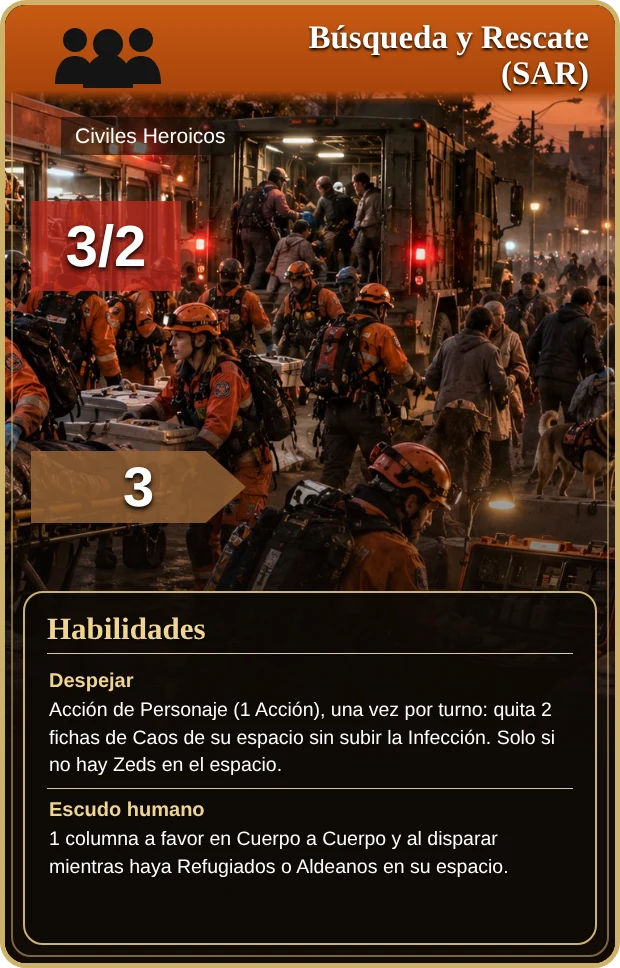
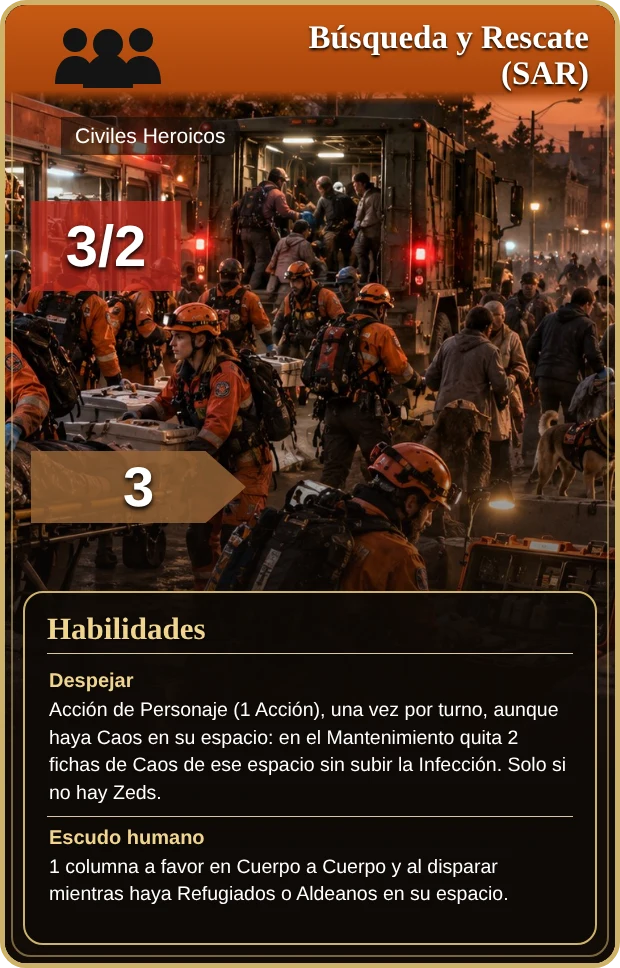
SAR: Despejar se ordena en Acciones y se resuelve en el Mantenimiento
Despejar marca el espacio; en el Mantenimiento quita 2 fichas de Caos sin
Infección y la restauración normal de ese espacio tampoco sube la Infección.
Carta, textos, CHANGELOG, BUILD_TIME y caché actualizados.

Claude-Session: https://claude.ai/code/session_01KmRiLZMftQUUyzar8LGUez

Changed region(s): [[0.0613, 0.7128, 0.9194, 0.9298]]

diff --git a/js/actions.js b/js/actions.js
@@ -188,7 +188,7 @@ function unitActions(u) {
   if (u.key === 'wilson' && u.space) A.push({ id: 'visions', label: '🔮 Visiones: mirar la carta superior de Destino', ok: true });
   if (u.key === 'bender' && u.space === 'C' && !u.ecg) A.push({ id: 'bcure', label: 'Reparar en el Centro (1 Sum., 1 vez por turno)', ok: curable(u) && G.supplies >= 1 });
   /* El SAR es la excepción a «con Caos no se actúa»: su Acción de Personaje es justo para quitarlo. */
-  if (u.key === 'sar' && !u.locked && !u.ecg) A.push({ id: 'despejar', label: 'Despejar (−2 Caos, sin Infección)', ok: !G.charUsed.despejar && pay(1) && despejarOk(u) });
+  if (u.key === 'sar' && !u.locked && !u.ecg) A.push({ id: 'despejar', label: 'Despejar (−2 Caos en el Mantenimiento)', ok: !G.charUsed.despejar && pay(1) && despejarOk(u) });
   if (act && !isSoft(u)) {
     const cu = k => !G.charUsed[k];
     if (u.key === 'schmidt') A.push({ id: 'ini', label: 'Iniciativa', ok: cu('ini') });
@@ -252,10 +252,9 @@ async function runAction(u, id) {
     case 'planes': G.charUsed.planes = true; u.free++; LOG('Jones usa Sus Propios Planes: 1 acción gratis para él.', 'good'); break;
     case 'calle': { const c = calleTargets(u); if (!c.length) { LOG('No hay Civiles que puedan avanzar.'); break; } const v = c.length === 1 ? c[0].id : await UI.pickUnit(c, 'Elige la unidad que avanza hacia el Centro.', true); if (v == null) break; const x = G.units[v], ds = calleDests(x); const d = ds.length === 1 ? ds[0] : await UI.pickSpace(ds, 'Alia: elige el destino de ' + x.name + ' (hasta 2 espacios hacia el Centro).', true); if (d == null) break; G.charUsed.calle = true; if (x.resist) { x.resist = false; LOG(x.name + ' deja de estar Resistiendo.'); } LOG('Alia manda a ' + x.name + ' hacia el Centro.', 'good'); await doMove(x, d, [x.space, d]); break; }
     case 'despejar': {
-      const s = sp(u.space), n = Math.min(2, s.chaos);
       if (!despejarOk(u)) { LOG('No se puede Despejar aquí.'); break; }
-      spendActions(u, 1); G.charUsed.despejar = true; s.chaos -= n; G.chaosLeft += n;
-      LOG('Despejar: ' + u.name + ' quita ' + n + ' de Caos en ' + spaceLabel(s.id) + ' (sin Infección).', 'good'); UI.pulseSpace(s.id, '#7bd45a'); UI.toast('Despejado: −' + n + ' Caos en ' + spaceLabel(s.id), '#7bd45a', 1600); UI.redraw(); break;
+      spendActions(u, 1); G.charUsed.despejar = true; u.despeja = { t: G.turnNo, sp: u.space };
+      LOG('Despejar: ' + u.name + ' prepara el despeje de ' + spaceLabel(u.space) + ' (−2 Caos en el Mantenimiento, sin Infección).', 'good'); UI.pulseSpace(u.space, '#7bd45a'); UI.redraw(); break;
     }
     case 'jefe': { const c = jefeTargets(u); if (!c.length) { LOG('No hay Civiles cerca.'); break; } const v = await UI.pickUnit(c, 'Jefe de equipo: elige la unidad de Civiles que recibe 1 acción gratis.', true); if (v == null) break; G.charUsed.jefe = true; G.units[v].free++; LOG('Jefe de equipo: ' + G.units[v].name + ' recibe 1 acción gratis.', 'good'); break; }
     case 'lid': { const c = allUnits(x => (x.type === 'civ' || x.type === 'civh' || x.type === 'marine') && x.key !== 'horacio' && x.space && (x.space === u.space || adjacentIds(u.space).includes(x.space))); if (!c.length) { LOG('No hay Civiles cerca.'); break; } const v = await UI.pickUnit(c, 'Liderazgo: elige la unidad que recibe 1 acción gratis.', true); if (v == null) break; G.charUsed.lid = true; G.units[v].free++; break; }
@@ -352,9 +351,12 @@ async function maintenance() {
   G.charUsed = {}; G.firstFreeUsed = {};
   if (G.lv.fourR) {
     for (const s of Object.values(G.spaces)) {
+      /* SAR: lo que preparó con Despejar este turno (2 fichas, sin Infección); después sigue la restauración normal del espacio, también sin Infección. */
+      const sar = unitsAt(s.id).some(x => x.key === 'sar' && !x.ecg && x.despeja && x.despeja.t === G.turnNo && x.despeja.sp === s.id);
+      if (sar && s.chaos) { const n = Math.min(2, s.chaos); s.chaos -= n; G.chaosLeft += n; LOG('Despejar: el SAR quita ' + n + ' de Caos en ' + spaceLabel(s.id) + ' (sin Infección).', 'good'); UI.pulseSpace(s.id, '#7bd45a'); UI.toast('Despejado: −' + n + ' Caos en ' + spaceLabel(s.id), '#7bd45a', 1600); }
       if (!s.chaos) continue;
       const rs = unitsAt(s.id).filter(u => (isFighter(u) || u.side === 'raid' || u.type === 'train') && !['pepinillos', 'horacio'].includes(u.key) && !u.ecg && u.type !== 'refugee');
-      const sinInf = rs.some(u => u.key === 'antidist' || u.key === 'doc');
+      const sinInf = sar || rs.some(u => u.key === 'antidist' || u.key === 'doc');
       if (rs.length) { s.chaos--; G.chaosLeft++; LOG('Se restaura el orden en ' + spaceLabel(s.id) + ' (−1 Caos' + (sinInf ? ', sin Infección' : ', +1 Infección') + ').', 'good'); UI.pulseSpace(s.id, '#7bd45a'); UI.toast('Orden restaurado en ' + spaceLabel(s.id) + ': −1 Caos', '#7bd45a', 1600); if (!sinInf) { if (G.weapon && alive('agee')) infDown(2); else await infUp(1); } }
     }
   }

diff --git a/js/ui.js b/js/ui.js
@@ -207,7 +207,7 @@ const ui = {
       ['hernandez', 'cit', 'Ciudadela', 'disparo gratis desde el Centro'], ['seaver', 'medico', 'Médico', 'Curar en el Hospital'], ['seaver', 'aidseaver', 'Primeros auxilios', 'Curar (1 Sum.)'],
       ['salvacion', 'aidsalvacion', 'Campamento Médico', 'Curar (1 Sum.)'], ['bauer', 'bauer', 'Dispositivos explosivos', '2 Sum. → 1 Mun.'], ['agee', 'boost', 'Madre de la Ciencia', '+1 Acción de Evento (+3 Inf.)'],
       ['wzed', 'wzed', 'Transmisión de Emergencia', '1 acción a Civiles/Refugiados'], ['bomberos', 'libera', 'Autoridad Civil', 'liberar Civiles/Aldeanos'], ['lee', 'pura', 'Purasangre', '1 Mover para Lee'],
-      ['darling', 'zen', 'Zen', '1 acción al jugar «Guardar»'], ['carter', 'crepair', 'Reparar camión', '1 Impacto por turno'], ['porter', 'jefe', 'Jefe de equipo', '1 acción a Civiles'], ['sar', 'despejar', 'Despejar', '−2 Caos sin Infección'], ['alia', 'calle', 'Ya no es hora de estar en la calle', 'mover Civiles 2 hacia el Centro']];
+      ['darling', 'zen', 'Zen', '1 acción al jugar «Guardar»'], ['carter', 'crepair', 'Reparar camión', '1 Impacto por turno'], ['porter', 'jefe', 'Jefe de equipo', '1 acción a Civiles'], ['sar', 'despejar', 'Despejar', '−2 Caos en el Mantenimiento'], ['alia', 'calle', 'Ya no es hora de estar en la calle', 'mover Civiles 2 hacia el Centro']];
     const ab = AB.filter(([k]) => alive(k)).map(([k, f, n, d]) => '<li class="sel' + (G.charUsed[f] ? ' used' : '') + '" data-uid="' + alive(k).id + '"><span>' + alive(k).name + ' — ' + n + '</span><span class="r">' + d + '</span></li>');
     if (alive('hernandez')) ab.push('<li class="sel' + (G.speechUsed ? ' used' : '') + '" data-uid="' + alive('hernandez').id + '"><span>' + alive('hernandez').name + ' — Discurso Motivador</span><span class="r">1 por partida</span></li>');
     if (alive('kingman')) { const k = alive('kingman').id; ab.push('<li class="sel' + (G.once.bast ? ' used' : '') + '" data-uid="' + k + '"><span>' + alive('kingman').name + ' — Bastión</span><span class="r">1 por partida</span></li>', '<li class="sel' + (G.once.mines ? ' used' : '') + '" data-uid="' + k + '"><span>' + alive('kingman').name + ' — Campo de Minas</span><span class="r">1 por partida</span></li>'); }

diff --git a/js/expansions.js b/js/expansions.js
@@ -29,7 +29,7 @@ Object.assign(HEROES, {
   macgyver: { name: 'Angus MacGyver', type: 'hero', cls: 'Ciudadano', full: 3, red: 2, mp: 4, img: 'macgyver', lv: 2, exp: 4, nofire: 1, sci: 1,
     txt: ['<b>Pacifista:</b> no dispara con armas de fuego.', '<b>Ingeniero:</b> puede entrar en el Laboratorio, donde puede Investigar. Si la tirada falla por 1, puede gastar 1 Suministro para sumarle +1.', '<b>Con lo que hay:</b> Acción de Personaje (1 vez por turno): convierte 1 Suministro en 2 Munición.', '<b>Cinta americana:</b> construye Barricadas por 1 Suministro.', '<b>Siempre hay otra salida:</b> al ser atacado por Zeds en una ruta, tira 1 dado: con 4-6 se retira gratis 1 espacio hacia el Centro antes del combate.'] },
   sar: { name: 'Búsqueda y Rescate (SAR)', type: 'civh', cls: 'Civiles Heroicos', full: 3, red: 2, mp: 3, img: 'sar', card: 'h_sar', lv: 2, exp: 4, hf: 2, hr: 2,
-    txt: ['<b>Despejar:</b> Acción de Personaje (1 Acción), una vez por turno: quita 2 fichas de Caos de su espacio sin subir la Infección. Solo si no hay Zeds en el espacio.', '<b>Escudo humano:</b> 1 columna a favor en combates Cuerpo a Cuerpo y al disparar mientras haya Refugiados o Aldeanos en su espacio.'] }
+    txt: ['<b>Despejar:</b> Acción de Personaje (1 Acción), una vez por turno, aunque haya Caos en su espacio: en el Mantenimiento quita 2 fichas de Caos de ese espacio sin subir la Infección. Solo si no hay Zeds en el espacio.', '<b>Escudo humano:</b> 1 columna a favor en combates Cuerpo a Cuerpo y al disparar mientras haya Refugiados o Aldeanos en su espacio.'] }
 });
 CIVH_POOL.push('jaque', 'sar');
 const EXP_HEROES = { 1: ['carter', 'lee', 'may'], 2: ['betty'], 4: ['porter', 'alia', 'bender', 'ash', 'frank', 'doc', 'samcarter', 'macgyver'] };

diff --git a/sw.js b/sw.js
@@ -1,7 +1,7 @@
 /* Service worker: permite instalar la web como app y jugar sin conexión.
    Código (html/js/css): red primero, con copia local de reserva. Imágenes y audio: caché primero. */
 'use strict';
-const CACHE = 'doz3-v40';
+const CACHE = 'doz3-v41';
 const SHELL = ['./', 'index.html', 'style.css', 'manifest.webmanifest', 'icons/icon-192.png', 'icons/icon-512.png', 'assets/portada.jpg', 'assets/fondo_nueva.webp', 'assets/fondo_ranking.webp',
   'js/version.js', 'js/data.js', 'js/events.js', 'js/dest.js', 'js/evlog.js', 'js/preview.js', 'js/obituario.js', 'js/engine.js', 'js/game.js', 'js/phases.js', 'js/actions.js', 'js/cardtext.js', 'js/ui.js', 'js/anim.js',
   'js/expansions.js', 'js/expansions2.js', 'js/sfx.js', 'js/sound.js', 'js/opciones.js', 'js/voz.js', 'js/ost.js', 'assets/sonidos/letras/letras.js', 'assets/sonidos/efectos/sfx_disparo.mp3', 'assets/sonidos/efectos/sfx_disparo_largo.mp3', 'js/mapzoom.js', 'js/seedcode.js', 'js/save.js', 'js/main.js', 'js/bot.js'];

diff --git a/js/version.js b/js/version.js
@@ -1,2 +1,2 @@
 /* Fecha y hora de la última build (hora de Madrid). Se actualiza con cada cambio publicado. */
-const BUILD_TIME = '2026-10-31 09:45';
+const BUILD_TIME = '2026-10-31 10:20';

diff --git a/CHANGELOG.md b/CHANGELOG.md
@@ -2,10 +2,10 @@
 
 Registro de cambios por publicación (push a `main`). Lo más reciente, arriba. Cada entrada lleva la misma fecha y hora que `BUILD_TIME` de `js/version.js`.
 
-## 2026-10-31 09:45
+## 2026-10-31 10:20
 
 ### Nuevo
-- **Nuevo Civiles Heroicos: Búsqueda y Rescate (SAR)** (expansión 4, nivel 2, Fuerza 3/2, Movimiento 3). **Despejar:** Acción de Personaje (1 Acción, una vez por turno) que quita 2 fichas de Caos de su espacio sin subir la Infección, siempre que no haya Zeds. **Escudo humano:** 1 columna a favor en combates Cuerpo a Cuerpo y al disparar mientras haya Refugiados o Aldeanos en su espacio. Con carta (frente y trasera) y fichas ilustradas; `tools/generar_sar.mjs` las regenera.
+- **Nuevo Civiles Heroicos: Búsqueda y Rescate (SAR)** (expansión 4, nivel 2, Fuerza 3/2, Movimiento 3). **Despejar:** Acción de Personaje (1 Acción, una vez por turno, aunque haya Caos en su espacio): en el Mantenimiento quita 2 fichas de Caos de ese espacio sin subir la Infección, siempre que no haya Zeds. La restauración normal de ese espacio tampoco sube la Infección. **Escudo humano:** 1 columna a favor en combates Cuerpo a Cuerpo y al disparar mientras haya Refugiados o Aldeanos en su espacio. Con carta (frente y trasera) y fichas ilustradas; `tools/generar_sar.mjs` las regenera.
 
 ### Fixes
 - **Registro de partida:** los eventos de Infección guardaban el cambio en el campo `n` y pisaban el número de secuencia del evento; ahora va en `d`. Lo mismo con el barajado del Destino (`cartas`).
